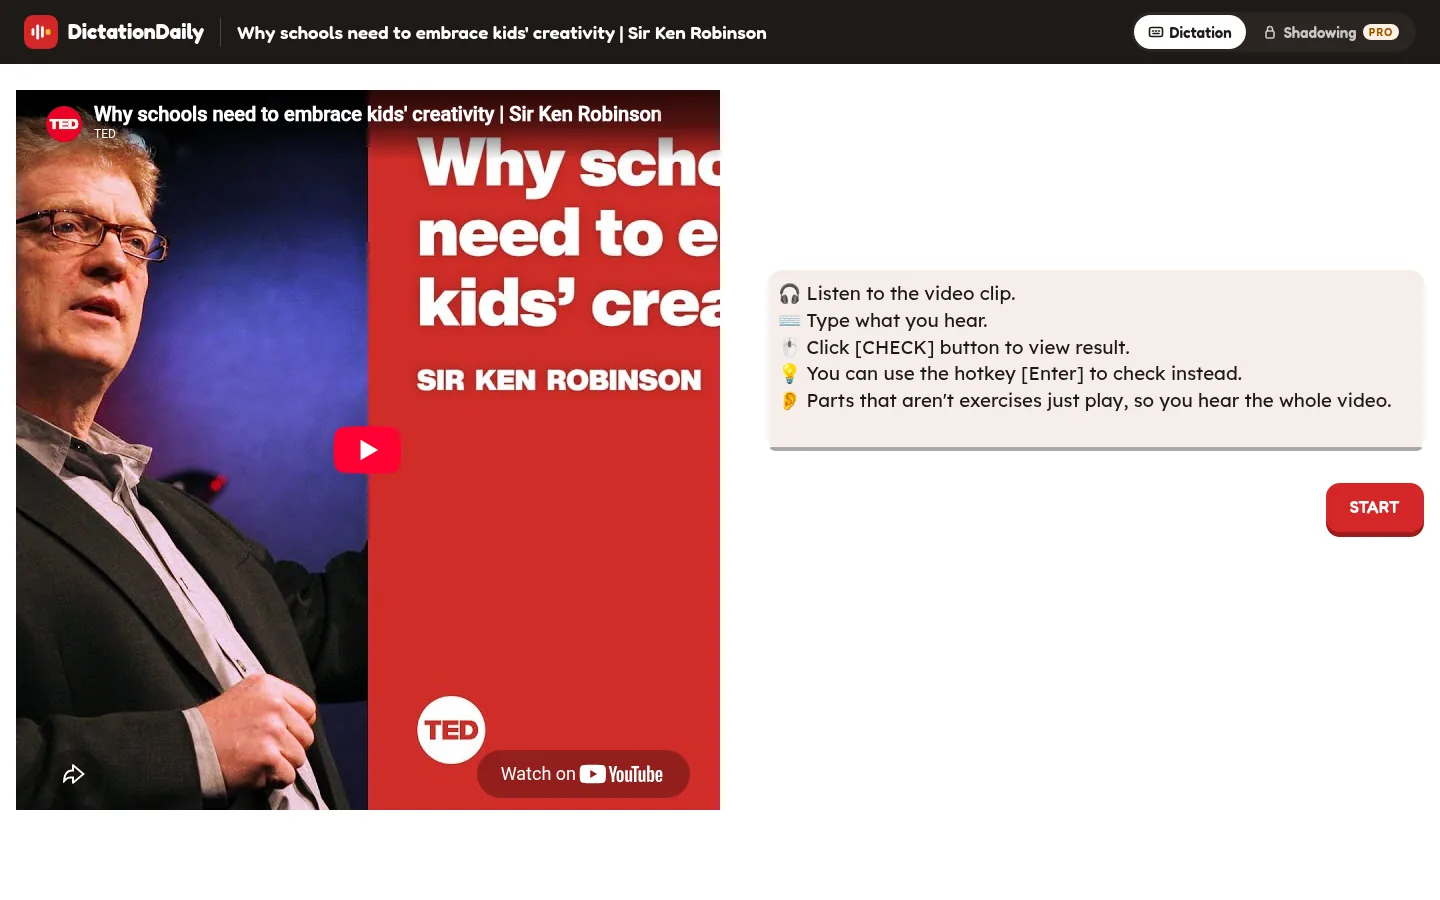
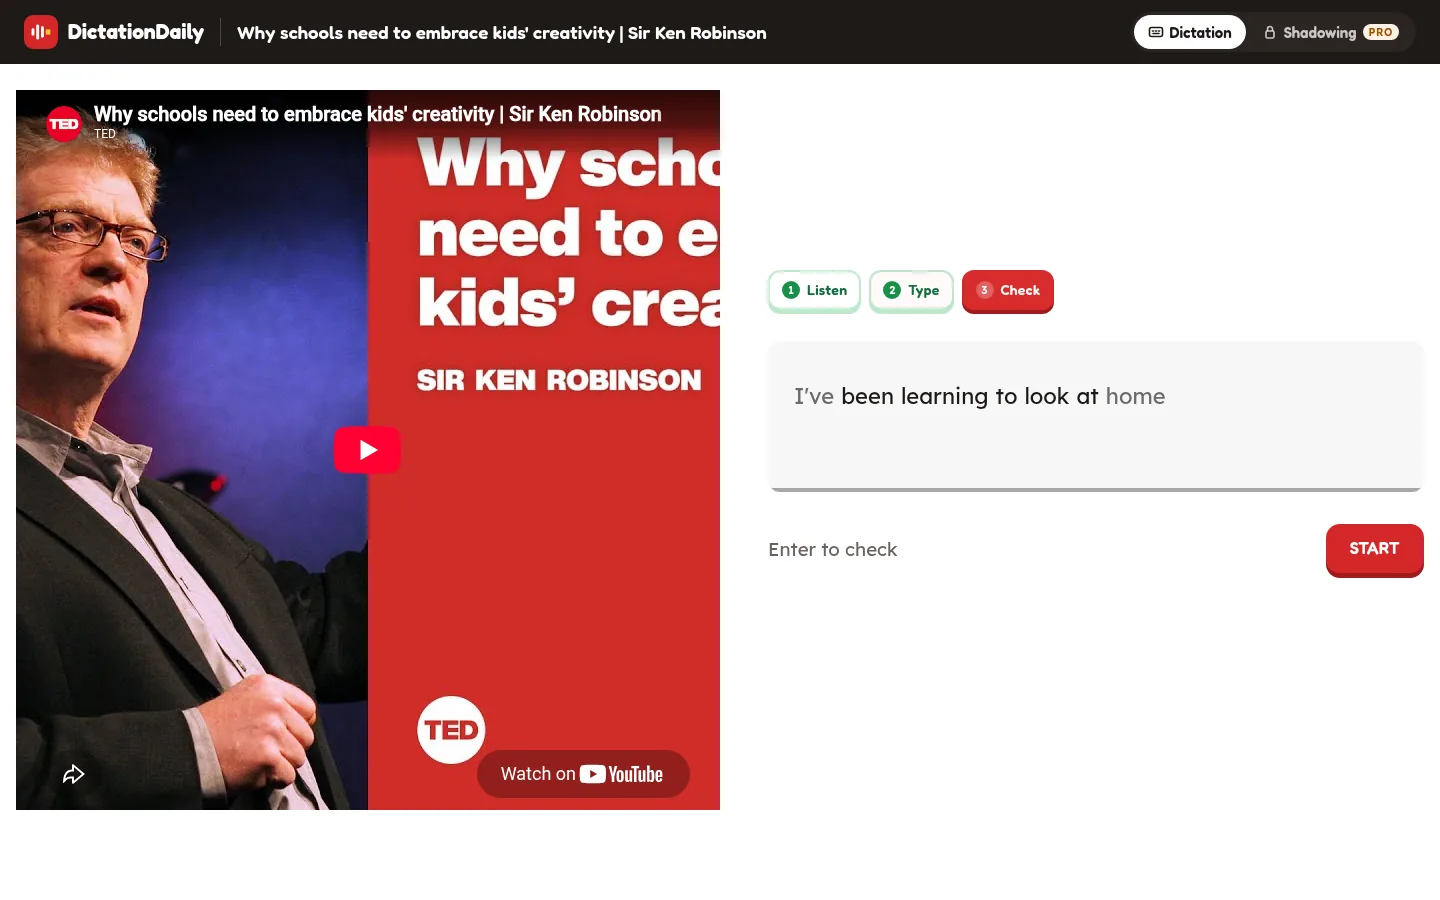
Show the new start screen: the steps acted out, in both modes
Desktop and phone start shots from production, the Shadowing start shot
signed in on a local worker, and the caption on the Shadowing page.

Changed region(s): [[0.5312, 0.28, 0.9688, 0.4667], [0.5312, 0.4978, 1.0, 0.6533], [0.5312, 0.5911, 0.625, 0.6222]]

diff --git a/src/pages/shadowing.html b/src/pages/shadowing.html
@@ -9,7 +9,7 @@
 
 <h2>Switch to Shadowing</h2>
 <p>Open any lesson. In the top bar, click <strong>Shadowing</strong>. The video stays; only the card on the right changes, and it keeps Dictation's shape: REPLAY at the top, the sentence in the same box, the action under it. Press <strong>START</strong> (or <kbd>Enter</kbd>); the browser asks for the microphone once, and the first line plays. Each mode remembers its own place, so you can switch back to <strong>Dictation</strong> at any time.</p>
-<shot src="shadowing-start" caption="The start screen: what to do, and START." alt="A lesson in Shadowing mode showing the start screen with four short instructions and a START button">
+<shot src="shadowing-start" caption="The start screen plays the three steps, Listen, Speak, See, on an example line. Then START." alt="A lesson in Shadowing mode showing the start screen with four short instructions and a START button">
 <shot src="shadowing-ready" caption="The line is playing: REPLAY and 0.75× at the top, the sentence with the word being said marked, the microphone waiting." alt="The Shadowing card: REPLAY and 0.75× keycaps, the sentence in a box with a progress bar, a grey microphone button saying Listen first">
 
 <h2>One line in four taps</h2>
